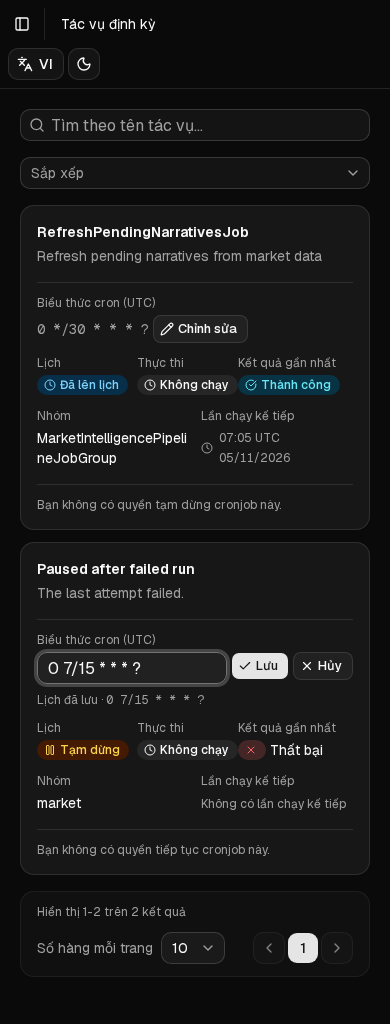
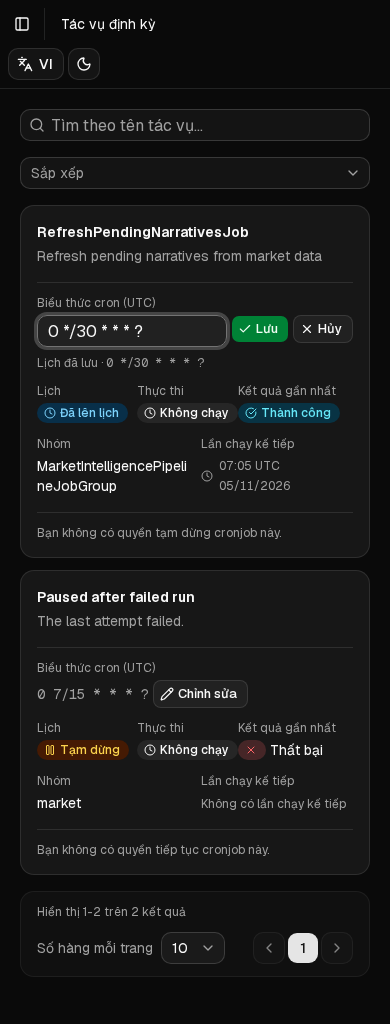
fix(cronjobs): focus running readback errors (SIGN-334)

Changed region(s): [[0.0615, 0.2812, 0.8923, 0.6875], [0.7692, 0.625, 0.8923, 0.6562]]

diff --git a/app/[lang]/(main)/cronjobs/cronjob-list.tsx b/app/[lang]/(main)/cronjobs/cronjob-list.tsx
@@ -96,7 +96,7 @@ const UTC_DATE_TIME_OPTIONS: Intl.DateTimeFormatOptions = {
 }
 
 type CronExpressionEditorSurface = "mobile" | "wide"
-type CronExpressionEditorFocusTarget = "input" | "edit"
+type CronExpressionEditorFocusTarget = "input" | "edit" | "error"
 
 type CronExpressionEditorState = {
   isEditing: boolean
@@ -727,9 +727,24 @@ function CronExpressionCell({
   const inputRef = useRef<HTMLInputElement>(null)
   const editButtonRef = useRef<HTMLButtonElement>(null)
   const expressionRef = useRef<HTMLSpanElement>(null)
+  const errorRef = useRef<HTMLDivElement>(null)
 
   useEffect(() => {
     if (isEditing) {
+      if (
+        focusTarget === "error" &&
+        focusSurface === surface &&
+        !isSaving &&
+        getVisibleCronExpressionSurface() === surface
+      ) {
+        errorRef.current?.focus()
+        onEditorStateChange((current) =>
+          current.focusTarget === "error" && current.focusSurface === surface
+            ? { ...current, focusTarget: null }
+            : current
+        )
+      }
+
       if (
         focusTarget === "input" &&
         focusSurface === surface &&
@@ -847,7 +862,8 @@ function CronExpressionCell({
           error: result.error || dictionary.cronjobs.cronUpdateError,
           isSaving: true,
           focusSurface: visibleSurface,
-          focusTarget: "input",
+          focusTarget:
+            result.data?.executionStatus === "RUNNING" ? "error" : "input",
           scheduleUnverified: result.data
             ? false
             : scheduleUnverified || current.scheduleUnverified,
@@ -943,7 +959,11 @@ function CronExpressionCell({
           disabled={isSaving || !canUpdate}
           className="min-w-[8rem]"
         />
-        {error ? <FieldError id={errorId}>{error}</FieldError> : null}
+        {error ? (
+          <FieldError ref={errorRef} id={errorId} tabIndex={-1}>
+            {error}
+          </FieldError>
+        ) : null}
         <p className="w-full text-xs text-muted-foreground">
           {scheduleUnverified
             ? dictionary.cronjobs.lastConfirmedSchedule
@@ -959,7 +979,7 @@ function CronExpressionCell({
       <div className="flex items-center gap-1">
         <Button
           type="submit"
-          variant="default"
+          variant="positive"
           size="sm"
           aria-label={
             isSaving ? dictionary.common.saving : dictionary.cronjobs.saveCron

diff --git a/tests/components/cronjob-list.component.test.tsx b/tests/components/cronjob-list.component.test.tsx
@@ -456,6 +456,46 @@ describe("CronjobListPage", () => {
     expect(mocks.routerRefresh).toHaveBeenCalled()
   })
 
+  it("restores focus to the error when a 409 readback reports the job is running", async () => {
+    const user = userEvent.setup()
+    const actual = {
+      ...cronjobs[2],
+      cronExpression: "0 10 * * * ?",
+      executionStatus: "RUNNING" as const,
+    }
+    mocks.updateCronjob.mockResolvedValue({
+      success: false,
+      error: en.cronjobs.cronUpdateConflict,
+      data: actual,
+      ambiguous: true,
+    })
+    renderCronjobList(["cronjob:read", "cronjob:update"])
+
+    const card = screen.getByRole("article", {
+      name: "Paused after execution",
+    })
+    await user.click(
+      within(card).getByRole("button", { name: "Edit cron expression" })
+    )
+    const input = within(card).getByRole("textbox", {
+      name: "Cron expression (UTC)",
+    })
+    await user.clear(input)
+    await user.type(input, "0 0 8 * * ?")
+    await user.keyboard("{Enter}")
+
+    const error = await within(card).findByRole("alert")
+    await waitFor(() => expect(error).toHaveFocus())
+    expect(input).toBeDisabled()
+    expect(input).toHaveValue("0 0 8 * * ?")
+    expect(input).toHaveAttribute("aria-describedby", error.id)
+    expect(
+      within(card).getByText("0 10 * * * ?", { exact: true })
+    ).toBeVisible()
+    expect(within(card).getByText("Running")).toBeVisible()
+    expect(mocks.toastSuccess).not.toHaveBeenCalled()
+  })
+
   it("labels the last confirmed schedule and says when the effective schedule is unverified", async () => {
     const user = userEvent.setup()
     mocks.updateCronjob.mockResolvedValue({

diff --git a/tests/e2e/cronjobs.spec.ts b/tests/e2e/cronjobs.spec.ts
@@ -398,7 +398,7 @@ test("cronjob schedule editor renders and cancels on Wide and Mobile", async ({
   await fixture.setScenario("/cronjobs", "short")
   await page.goto("/vi/cronjobs")
   const mobileCard = page.getByRole("article", {
-    name: "Paused after failed run",
+    name: "RefreshPendingNarrativesJob",
   })
   const mobileEdit = mobileCard.getByRole("button", {
     name: "Chỉnh sửa biểu thức cron",
@@ -409,11 +409,11 @@ test("cronjob schedule editor renders and cancels on Wide and Mobile", async ({
     name: "Biểu thức cron (UTC)",
   })
   await expect(mobileInput).toBeFocused()
-  await expect(mobileInput).toHaveValue("0 7/15 * * * ?")
+  await expect(mobileInput).toHaveValue("0 */30 * * * ?")
   await expect(
     mobileCard.locator("p").filter({ hasText: "Lịch đã lưu" })
   ).toBeVisible()
-  await expect(mobileCard.locator("code")).toHaveText("0 7/15 * * * ?")
+  await expect(mobileCard.locator("code")).toHaveText("0 */30 * * * ?")
   const mobileEditorAxe = await new AxeBuilder({ page })
     .withTags(["wcag2a", "wcag2aa"])
     .exclude(".bar")
@@ -430,7 +430,7 @@ test("cronjob schedule editor renders and cancels on Wide and Mobile", async ({
   })
   await mobileCard.getByRole("button", { name: "Hủy chỉnh sửa" }).click()
   await expect(
-    mobileCard.getByText("0 7/15 * * * ?", { exact: true })
+    mobileCard.getByText("0 */30 * * * ?", { exact: true })
   ).toBeVisible()
   await expect(
     mobileCard.getByRole("button", { name: "Chỉnh sửa biểu thức cron" })
